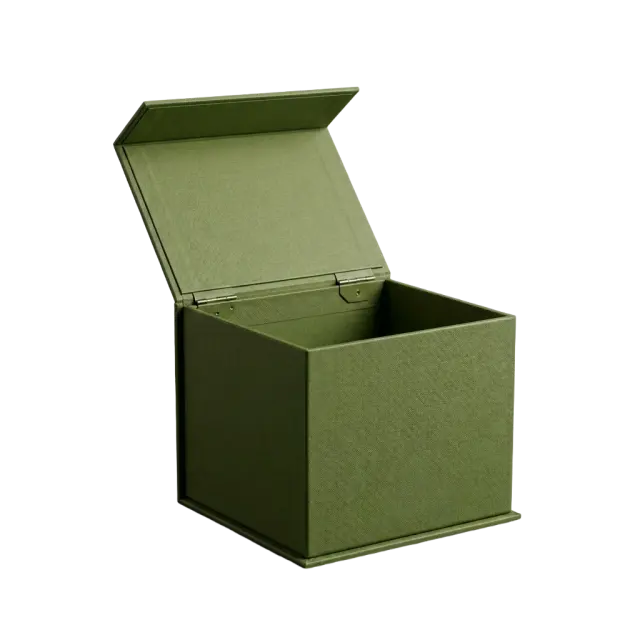
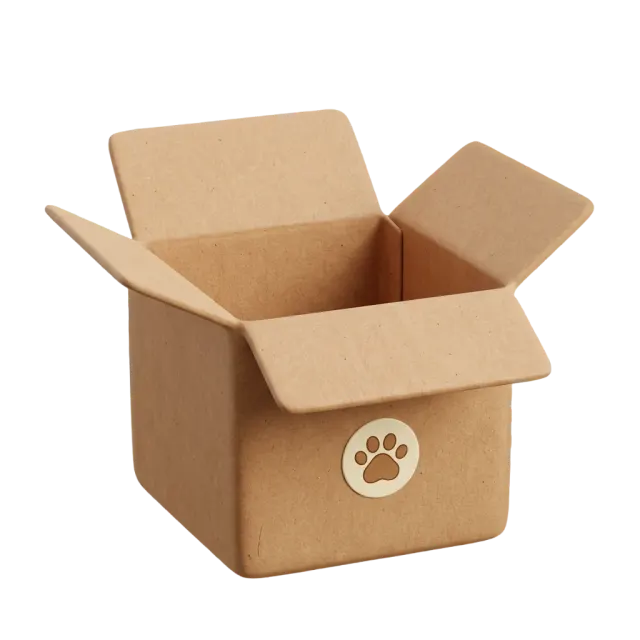
Лендінг: підвал — крафтова коробка з лапкою (картинки власника), тварина під новий отвір

diff --git a/assets/landing.css b/assets/landing.css
@@ -653,10 +653,10 @@ footer .copy { margin-left: auto; }
 .foot { padding-top: clamp(40px, 6vw, 80px); }
 .foot-cta { align-items: end; }
 .pb { width: min(100%, 400px); display: grid; justify-items: center; gap: 10px; margin-bottom: clamp(28px, 4vw, 48px); }
-.pb-box { position: relative; width: 100%; aspect-ratio: 1; margin: -12% 0 -14%; cursor: pointer; transform-origin: 55% 82%; }
+.pb-box { position: relative; width: 100%; aspect-ratio: 1; margin: -12% 0 -14%; cursor: pointer; transform-origin: 52% 90%; }
 .pb-box > img, .pb-pit { position: absolute; inset: 0; width: 100%; height: 100%; }
-.pb-pit { height: 80%; overflow: hidden; }
-.pb-pet { position: absolute; left: 21%; top: 13%; width: 68%; height: auto; transition: transform .3s cubic-bezier(.5,0,.75,0); }
+.pb-pit { height: 90%; overflow: hidden; }
+.pb-pet { position: absolute; left: 15%; top: 9%; width: 72%; height: auto; transition: transform .3s cubic-bezier(.5,0,.75,0); }
 .pb-pet.down { transform: translateY(78%); }
 .pb-pet.up { transition: transform .55s cubic-bezier(.3,1.5,.5,1); }
 .pb-box.wob { animation: pb-wob .5s ease-in-out; }

diff --git a/en/index.html b/en/index.html
@@ -22,7 +22,7 @@
 <meta property="og:locale" content="en_US">
 <link rel="icon" href="/assets/favicon.png">
 <link rel="preload" href="/assets/fonts/Mulish_700Bold.ttf" as="font" type="font/ttf" crossorigin>
-<link rel="stylesheet" href="/assets/landing.css?v=86981601">
+<link rel="stylesheet" href="/assets/landing.css?v=4648addd">
 <script>document.documentElement.classList.add('js');try{var th=localStorage.getItem('theme');if(th)document.documentElement.dataset.theme=th}catch(e){}</script>
 <script src="https://cdnjs.cloudflare.com/ajax/libs/gsap/3.12.5/gsap.min.js" defer></script>
 <script src="https://cdnjs.cloudflare.com/ajax/libs/gsap/3.12.5/ScrollTrigger.min.js" defer></script>

diff --git a/index.html b/index.html
@@ -22,7 +22,7 @@
 <meta property="og:locale" content="uk_UA">
 <link rel="icon" href="/assets/favicon.png">
 <link rel="preload" href="/assets/fonts/Mulish_700Bold.ttf" as="font" type="font/ttf" crossorigin>
-<link rel="stylesheet" href="/assets/landing.css?v=86981601">
+<link rel="stylesheet" href="/assets/landing.css?v=4648addd">
 <script>document.documentElement.classList.add('js');try{var th=localStorage.getItem('theme');if(th)document.documentElement.dataset.theme=th}catch(e){}</script>
 <script src="https://cdnjs.cloudflare.com/ajax/libs/gsap/3.12.5/gsap.min.js" defer></script>
 <script src="https://cdnjs.cloudflare.com/ajax/libs/gsap/3.12.5/ScrollTrigger.min.js" defer></script>
